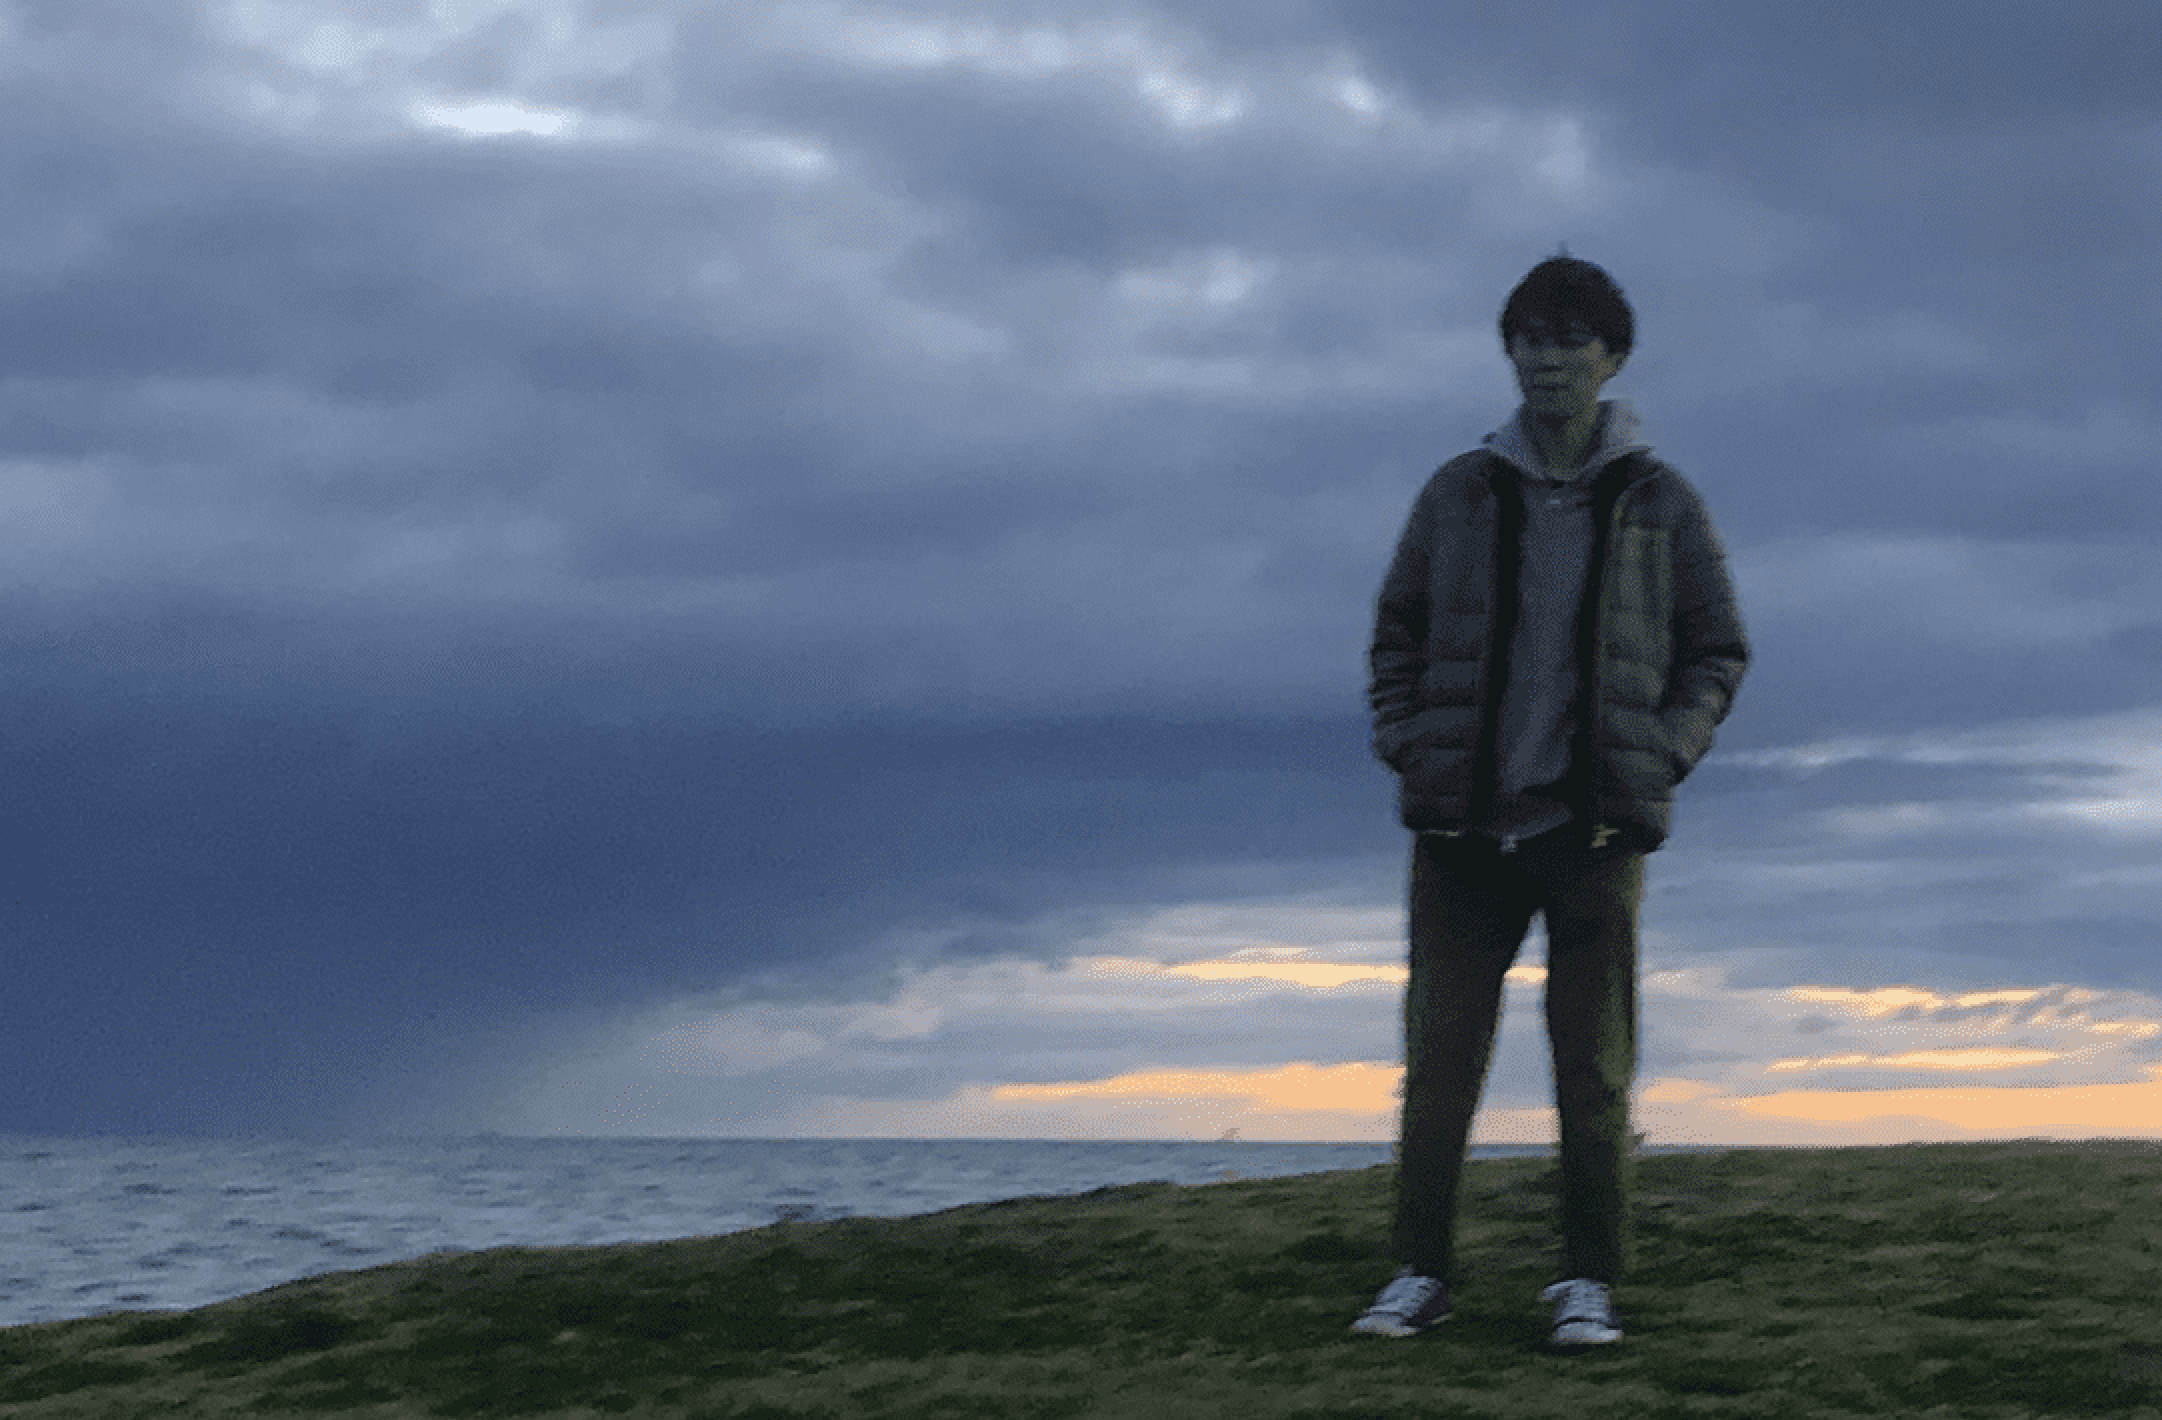
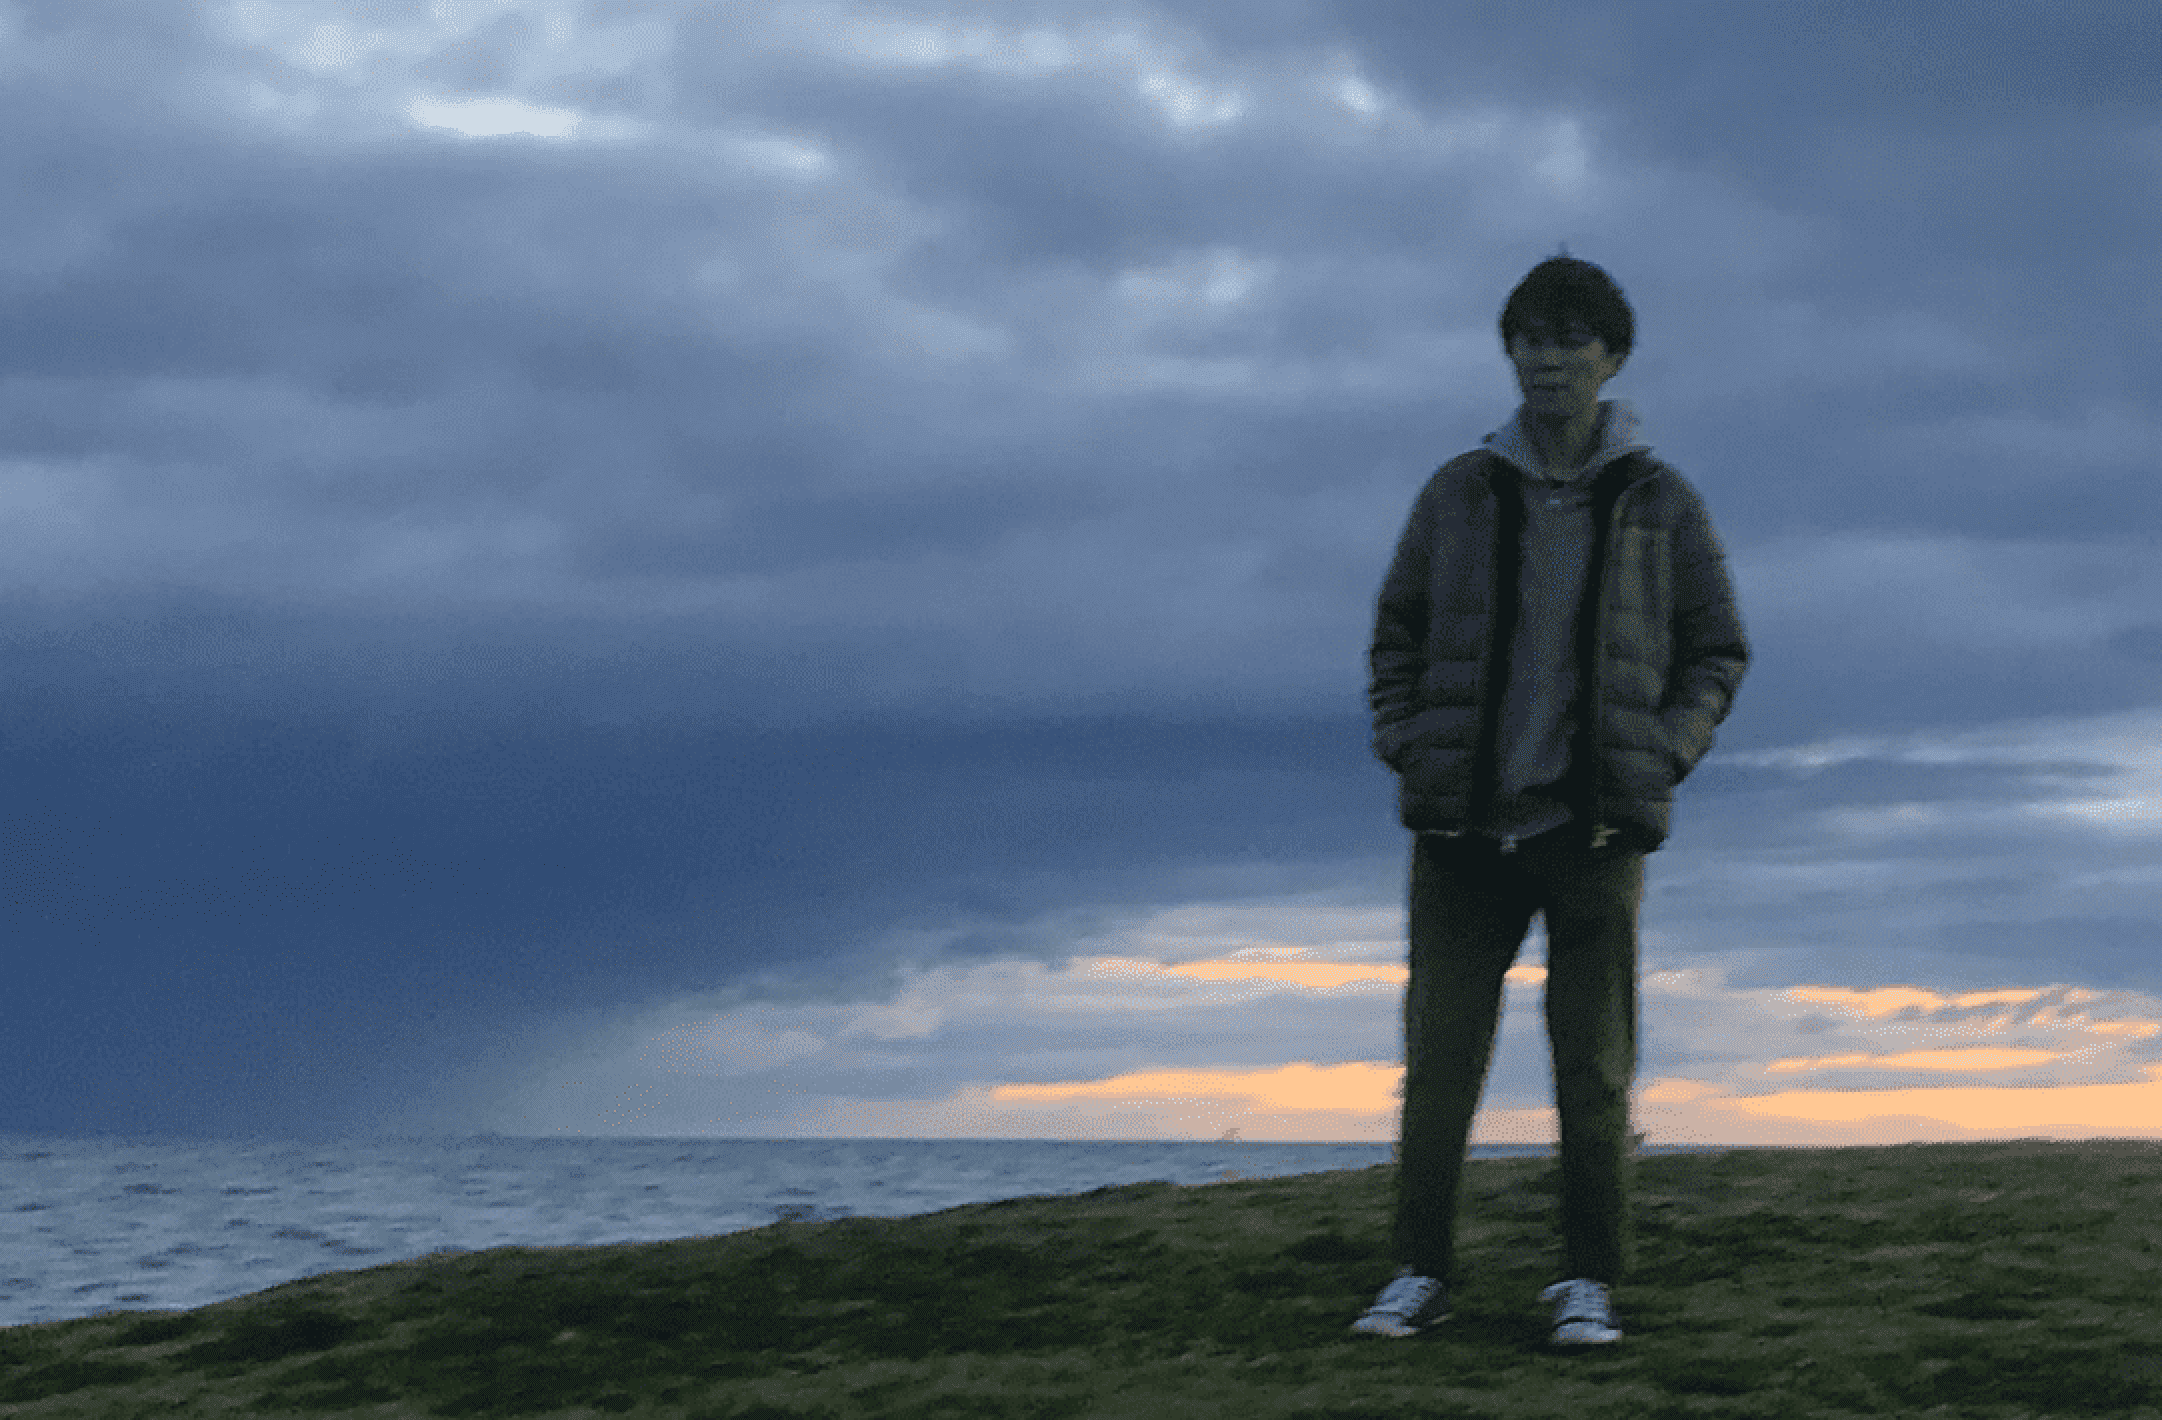
mainVisualのresponsive対応

diff --git a/components/sections/MainVisual.module.scss b/components/sections/MainVisual.module.scss
@@ -1,13 +1,12 @@
+@import "@/styles/mixin.scss";
+
 .mainVisual {
-  $aspectRatio: 1/0.42;
-
-  @media screen and (max-width: 768px) {
-    $aspectRatio: 1/0.6;
-  }
-
   > .imagewrapper {
     width: 100%;
-    aspect-ratio: $aspectRatio;
+    aspect-ratio: 1/0.42;
+    @include tab {
+      aspect-ratio: 1/0.9;
+    }
     position: fixed;
     z-index: var(--z-index-main-visual);
 
@@ -20,11 +19,14 @@
 
   > .content {
     width: 100%;
-    aspect-ratio: $aspectRatio;
+    aspect-ratio: 1/0.42;
+    @include tab {
+      aspect-ratio: 1/0.9;
+    }
     background: linear-gradient(to bottom, transparent, transparent 90%, #fff);
     color: #fff;
     font-weight: 700;
-    padding: 0 48px;
+    padding-left: 48px;
     display: flex;
     flex-flow: column;
     justify-content: center;

diff --git a/components/sections/MailVisual.tsx b/components/sections/MailVisual.tsx
@@ -1,14 +1,17 @@
+import useWindowSize from "@/hooks/useWindowSize";
 import Image from "next/image";
 import styles from "./MainVisual.module.scss";
 
 export default function MainVisual() {
+  const { smallerThanTablet } = useWindowSize();
+
   return (
     <>
       <div className={styles.mainVisual}>
         <div className={styles.imagewrapper}>
           <div className={styles.image}>
             <Image
-              src="/mainVisual.png"
+              src={smallerThanTablet ? "/mainVisualSP.png" : "/mainVisual.png"}
               alt="main visual"
               fill
               priority

diff --git a/styles/mixin.scss b/styles/mixin.scss
@@ -1,0 +1,21 @@
+$pc: 1080px;
+$tab: 768px;
+$sp: 480px;
+
+@mixin pc {
+  @media screen and (max-width: ($pc)) {
+    @content;
+  }
+}
+
+@mixin tab {
+  @media screen and (max-width: ($tab)) {
+    @content;
+  }
+}
+
+@mixin sp {
+  @media screen and (max-width: ($sp)) {
+    @content;
+  }
+}

diff --git a/pages/_app.tsx b/pages/_app.tsx
@@ -5,6 +5,7 @@ import type { AppProps } from "next/app";
 import "@/styles/zIndex.scss";
 import "@/styles/helper.scss";
 import "@/styles/global.scss";
+import "@/styles/mixin.scss";
 
 export default function App({ Component, pageProps }: AppProps) {
   return (
